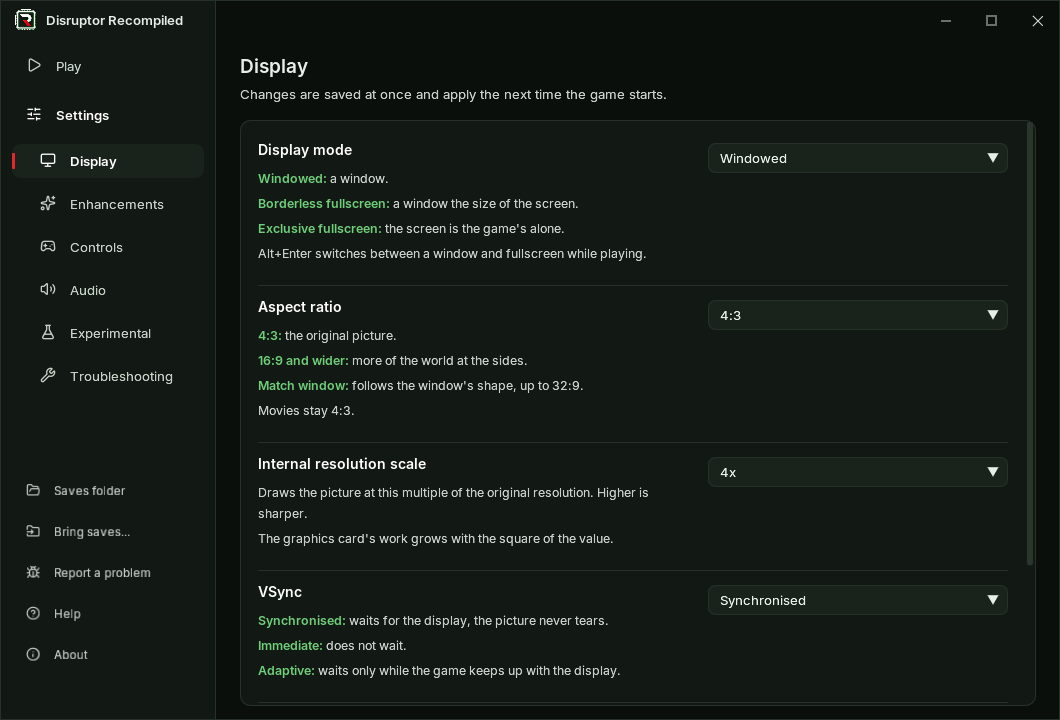
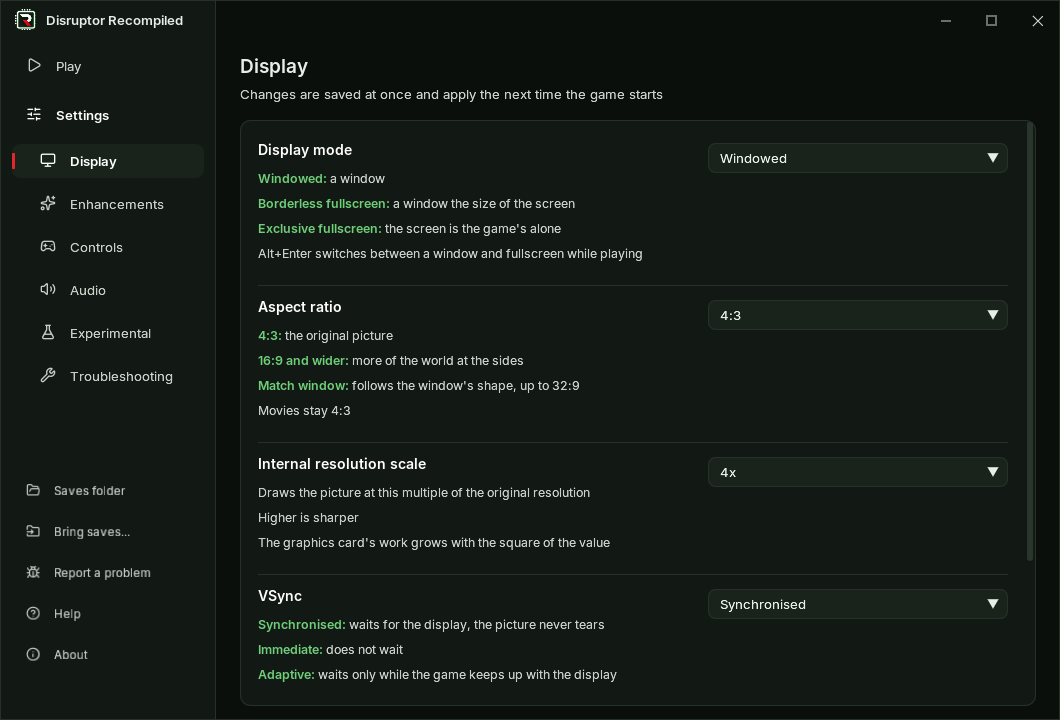
docs: add the 0.6.0 changelog and retake the launcher pictures for the README

diff --git a/CHANGELOG.md b/CHANGELOG.md
@@ -2,6 +2,33 @@
 
 What changed in each release. The launcher shows the section of its own version on its home page.
 
+## v0.6.0
+
+Released on 2026-10-22
+
+### Changes
+
+- Weapon keys: Number keys pick weapons is now Weapon and psionic keys, no longer experimental
+- Game menu: Master volume and Mute all audio moved from System to a new Audio tab
+- Game code: changed, the launcher carries save states of 0.5.0 over
+- Capsules: those of 0.5.0 no longer load
+- Text: lines in the launcher and the game's menu end without a full stop
+
+### Enhancements
+
+- Weapon and psionic keys: two keys for every weapon and power, set on the Controls page
+- Psionic keys: a power's key also uses the power once it is in hand, on at first
+- Key profiles: two sets of every key on the Controls page, saved and loaded there
+- Bass: Original, Reduced or TV speaker on the Audio page
+- Mute in the background: silences the game while its window is not in front
+- 60 FPS gameplay: enemies and shots move on every frame
+- Launcher colours: headings red, what a line is about green, the date grey
+
+### Bug fixes
+
+- Weapon switch: the far draw distance and the vertical look hold while a weapon changes
+- Widescreen: a list's name no longer flashes at the screen's edge as the list opens
+
 ## v0.5.0
 
 Released on 2026-10-21

diff --git a/README.md b/README.md
@@ -50,7 +50,7 @@
     <td valign="top">
       <img src="docs/images/controls.png" alt="The Controls page" width="100%"><br>
       <b>Controls</b><br>
-      Mouse and WASD, the original keys or a gamepad
+      Keys for weapons and psionic powers, the mouse, a gamepad
     </td>
     <td valign="top">
       <img src="docs/images/keys.png" alt="The key and gamepad tables" width="100%"><br>
